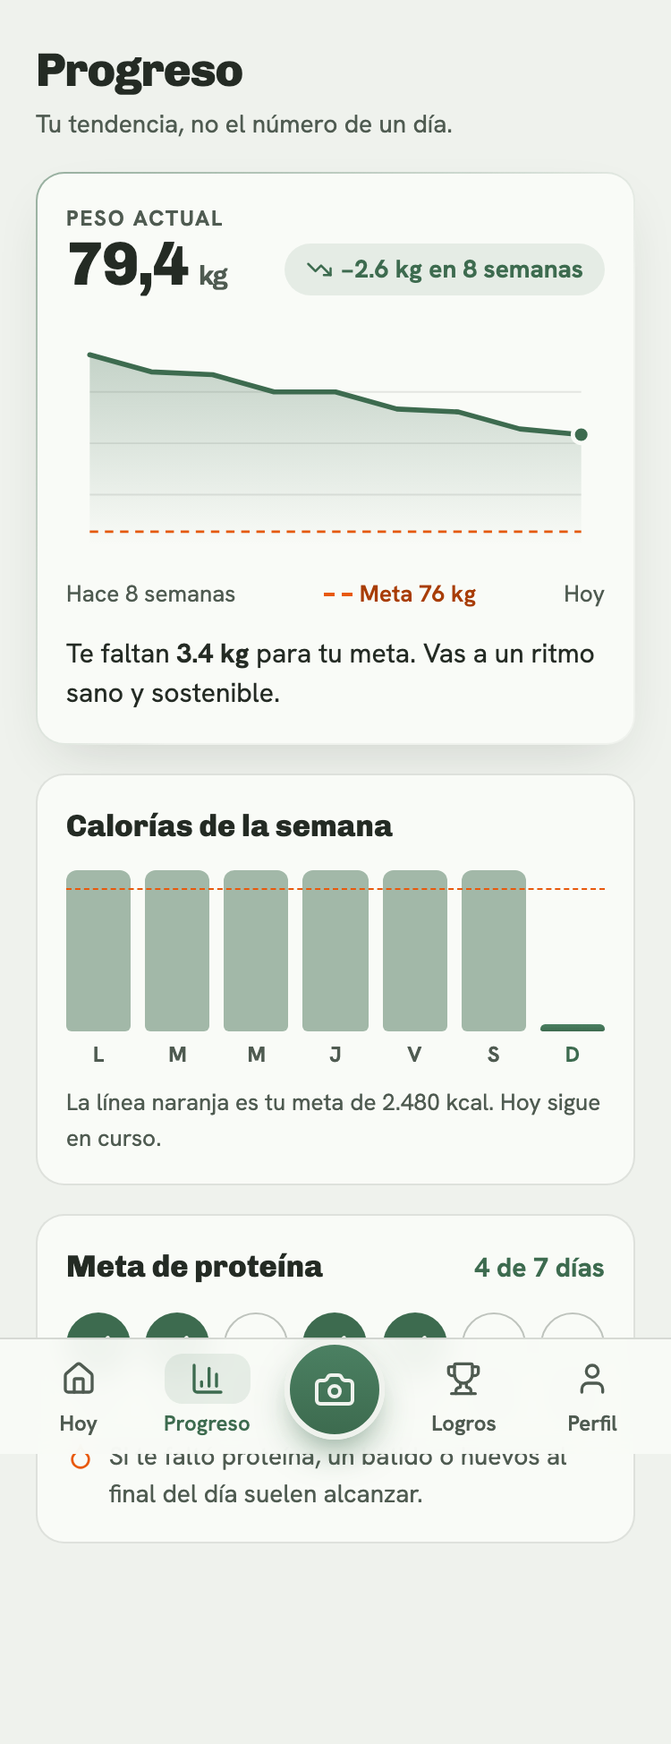
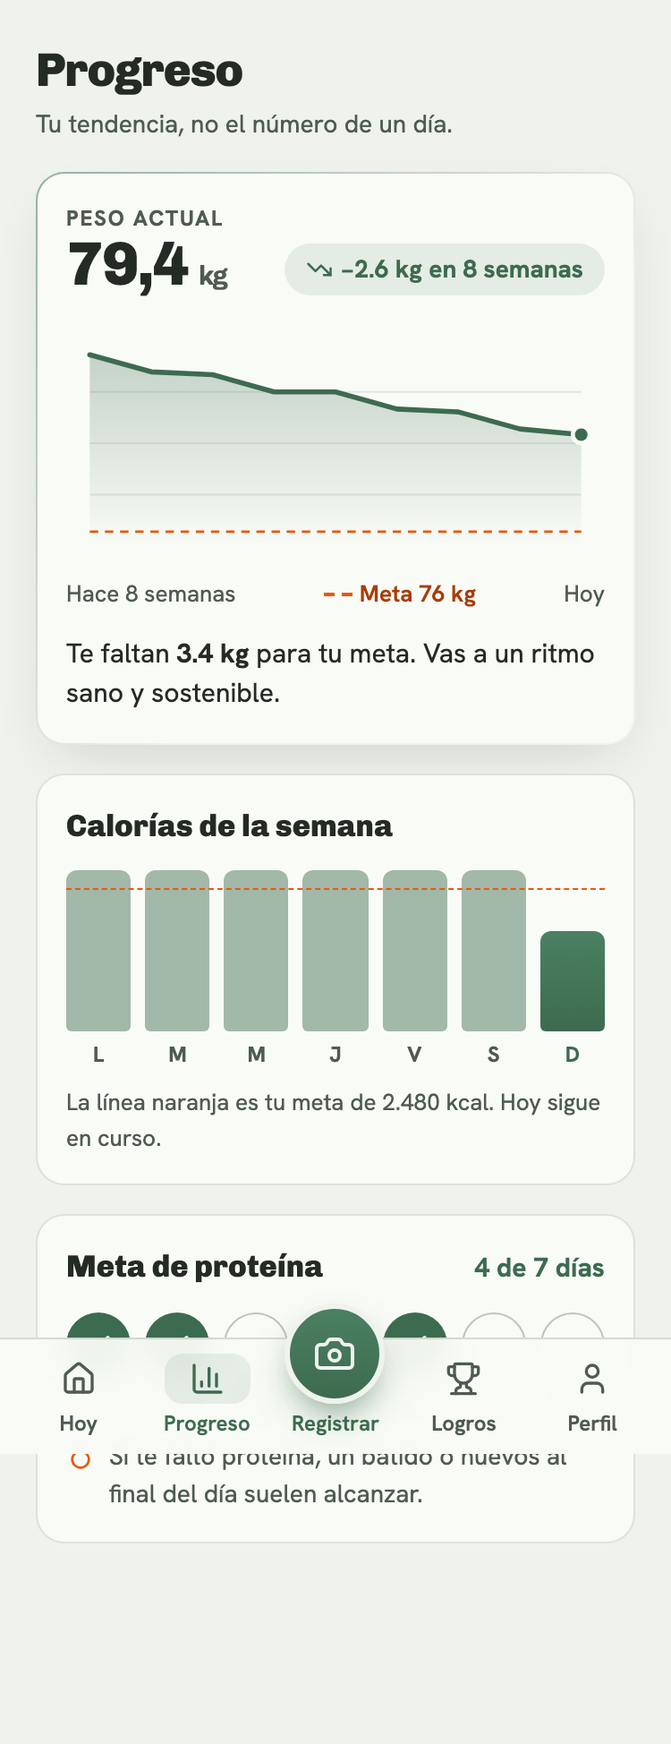
fix: pantalla principal tras 1ª revisión (editar/eliminar/deshacer, racha, macros, estados)

Changed region(s): [[0.4293, 0.7392, 0.5827, 0.8624], [0.7973, 0.5236, 0.92, 0.5852]]

diff --git a/components/app/Hoy.tsx b/components/app/Hoy.tsx
@@ -2,9 +2,10 @@
 
 import Link from 'next/link';
 import { motion } from 'motion/react';
-import { Bell, Droplet, Flame, Plus, Trophy } from 'lucide-react';
+import { useState } from 'react';
+import { Droplet, Flame, Pencil, Plus, Trash2, Trophy, X } from 'lucide-react';
 import { Cuenta, Esqueleto, useAppData } from './uso';
-import { totalesHoy, nivelDe } from '@/lib/app-store';
+import { editarComida, eliminarComida, nivelDe, restaurarComida, totalesHoy, type Comida } from '@/lib/app-store';
 import { EASE } from '@/components/onboarding/ui';
 
 const fechaLarga = () => {
@@ -24,7 +25,11 @@ function Anillo({ pct, size = 76 }: { pct: number; size?: number }) {
 }
 
 export function Hoy() {
-  const [d] = useAppData();
+  const [d, actualizar] = useAppData();
+  const [abierta, setAbierta] = useState<Comida | null>(null);
+  const [editando, setEditando] = useState(false);
+  const [form, setForm] = useState({ titulo: '', kcal: '' });
+  const [deshacer, setDeshacer] = useState<Comida | null>(null);
   if (!d) return <Esqueleto />;
   const t = totalesHoy(d);
   const restantes = Math.max(0, d.metaKcal - t.kcal);
@@ -44,14 +49,13 @@ export function Hoy() {
           <h1 className="truncate text-[20px] font-extrabold leading-tight tracking-[-0.02em] [font-family:var(--font-display)]">Hola, {d.nombre}</h1>
           <p className="text-[14px] text-[var(--text-secondary)]">{fechaLarga()}</p>
         </div>
-        <span className="inline-flex items-center gap-1 rounded-full bg-[#A83D06] px-2.5 py-1 text-[13px] font-extrabold text-white"><Flame size={14} aria-hidden="true" />{d.racha}</span>
-        <button type="button" aria-label="Avisos" className="flex size-11 items-center justify-center rounded-[12px] border border-[color-mix(in_oklab,var(--text-secondary)_20%,transparent)] bg-[var(--surface)] text-[var(--text-secondary)]"><Bell size={18} aria-hidden="true" /></button>
+        <Link href="/app/logros" aria-label={`Racha de ${d.racha} días. Ver logros`} className="inline-flex min-h-11 items-center gap-1 rounded-full bg-[#A83D06] px-3 text-[14px] font-extrabold text-white"><Flame size={15} aria-hidden="true" />{d.racha} días</Link>
       </header>
       {d.demo && <p className="mt-3 inline-block rounded-full bg-[var(--surface-2)] px-3 py-1 text-[13px] font-semibold text-[var(--text-secondary)]">Vista previa con datos de ejemplo</p>}
 
       <motion.section initial={{ opacity: 0, y: 12 }} animate={{ opacity: 1, y: 0 }} transition={{ duration: 0.35, ease: EASE }} aria-label="Camino a tu meta" className="mt-4 rounded-[var(--radius-card)] p-4 text-[#F4FAF5] shadow-[0_14px_26px_-12px_rgb(61_107_79/.65)] [background:radial-gradient(120px_80px_at_100%_0%,rgb(255_255_255/.16),transparent_70%),linear-gradient(160deg,#4B8062,#3D6B4F_55%,#2F5640)]">
         <p className="text-[12px] font-bold uppercase tracking-[0.08em] opacity-85">Camino a tu meta</p>
-        <p className="mt-1 text-[28px] font-extrabold leading-none tabular-nums tracking-[-0.03em] [font-family:var(--font-display)]"><Cuenta valor={pesoActual} decimales={1} /> kg <span className="text-[14px] font-semibold opacity-80">→ meta {d.pesoMeta} kg</span></p>
+        <p className="mt-1 text-[24px] font-extrabold leading-none tabular-nums tracking-[-0.03em] [font-family:var(--font-display)]"><Cuenta valor={pesoActual} decimales={1} /> kg <span className="text-[14px] font-semibold opacity-80">→ meta {d.pesoMeta} kg</span></p>
         <div className="relative mt-3 h-2 rounded-full bg-white/20" role="progressbar" aria-valuenow={Math.round(progresoPeso * 100)} aria-valuemin={0} aria-valuemax={100} aria-label="Avance hacia tu meta">
           <motion.div initial={{ width: 0 }} animate={{ width: `${progresoPeso * 100}%` }} transition={{ duration: 0.9, ease: EASE }} className="h-full rounded-full bg-[#F4FAF5]" />
           {[25, 50, 75].map((p) => <span key={p} className="absolute -top-[3px] h-[14px] w-[2px] rounded bg-white/55" style={{ left: `${p}%` }} />)}
@@ -61,8 +65,8 @@ export function Hoy() {
         </div>
         <div className="mt-3 flex items-center gap-2 text-[12px] font-bold uppercase tracking-[0.04em]">
           <span>Nivel {nivel.actual.n} · {nivel.actual.nombre}</span>
-          <span className="h-1.5 flex-1 overflow-hidden rounded-full bg-white/20"><span className="block h-full rounded-full [background:linear-gradient(90deg,#FF8A3D,#E8590C)]" style={{ width: `${nivel.progreso * 100}%` }} /></span>
-          <span className="tabular-nums">{d.xp} XP</span>
+          <span className="h-1.5 flex-1 overflow-hidden rounded-full bg-white/20"><motion.span initial={{ width: 0 }} animate={{ width: `${nivel.progreso * 100}%` }} transition={{ duration: 0.9, delay: 0.3, ease: EASE }} className="block h-full rounded-full [background:linear-gradient(90deg,#FF8A3D,#E8590C)]" /></span>
+          <span className="tabular-nums">{d.xp} / {nivel.sig ? nivel.sig.desde : d.xp} XP</span>
         </div>
       </motion.section>
 
@@ -72,14 +76,15 @@ export function Hoy() {
           <Flame size={22} className="absolute inset-0 m-auto text-[#E8590C]" aria-hidden="true" />
         </div>
         <div className="min-w-0 flex-1">
-          <p className="text-[28px] font-extrabold leading-none tabular-nums tracking-[-0.03em] [font-family:var(--font-display)]"><Cuenta valor={t.kcal} /> <span className="text-[14px] font-semibold text-[var(--text-secondary)]">de {d.metaKcal.toLocaleString('es-CO')} kcal</span></p>
+          <p className="text-[40px] font-extrabold leading-none tabular-nums tracking-[-0.03em] [font-family:var(--font-display)]"><Cuenta valor={t.kcal} /></p>
+          <p className="mt-1 text-[14px] font-semibold text-[var(--text-secondary)]">de {d.metaKcal.toLocaleString('es-CO')} kcal</p>
           <p className="mt-1 text-[14px] text-[var(--text-secondary)]">{restantes > 0 ? `Te quedan ${restantes.toLocaleString('es-CO')} kcal` : 'Llegaste a tu meta de hoy'}</p>
           <div className="mt-2 grid grid-cols-3 gap-2">
             {macros.map((m) => (
               <div key={m.n}>
-                <p className="text-[15px] font-bold tabular-nums">{m.v} g</p>
-                <p className="text-[12px] text-[var(--text-secondary)]">{m.n} de {m.m}</p>
-                <span className="mt-1 block h-1 overflow-hidden rounded-full bg-[color-mix(in_oklab,var(--text-primary)_10%,transparent)]"><span className="block h-full rounded-full" style={{ width: `${Math.min(100, (m.v / m.m) * 100)}%`, background: m.c }} /></span>
+                <p className="whitespace-nowrap text-[15px] font-bold tabular-nums">{m.v}<span className="text-[13px] font-medium text-[var(--text-secondary)]"> /{m.m} g</span></p>
+                <p className="text-[12px] text-[var(--text-secondary)]">{m.n}</p>
+                <span className="mt-1 block h-1 overflow-hidden rounded-full bg-[color-mix(in_oklab,var(--text-primary)_10%,transparent)]"><motion.span initial={{ width: 0 }} animate={{ width: `${Math.min(100, (m.v / m.m) * 100)}%` }} transition={{ duration: 0.8, delay: 0.2, ease: EASE }} className="block h-full rounded-full" style={{ background: m.c }} /></span>
               </div>
             ))}
           </div>
@@ -100,14 +105,16 @@ export function Hoy() {
         ) : (
           <ul className="mt-3 flex flex-col gap-2">
             {d.comidasHoy.map((c, i) => (
-              <motion.li key={c.id} initial={{ opacity: 0, y: 10 }} animate={{ opacity: 1, y: 0 }} transition={{ duration: 0.3, delay: 0.1 + 0.06 * i, ease: EASE }} className="flex items-center gap-3 rounded-[var(--radius-card)] border border-[color-mix(in_oklab,var(--text-secondary)_16%,transparent)] bg-[var(--surface)] p-2 pr-4">
-                {/* eslint-disable-next-line @next/next/no-img-element */}
-                {c.foto ? <img src={c.foto} alt="" width={52} height={52} className="size-[52px] shrink-0 rounded-[12px] object-cover" /> : <span className="flex size-[52px] shrink-0 items-center justify-center rounded-[12px] bg-[var(--chip-bg)] text-[var(--accent)]"><Plus size={20} aria-hidden="true" /></span>}
-                <div className="min-w-0 flex-1">
-                  <p className="truncate text-[15px] font-bold">{c.titulo}</p>
-                  <p className="truncate text-[13px] text-[var(--text-secondary)]">{c.hora} · {c.aceite ? <span className="font-semibold text-[#A83D06]">+{c.aceite} kcal de aceite</span> : c.nota ?? 'Registrado'}</p>
-                </div>
-                <p className="text-right text-[17px] font-extrabold tabular-nums [font-family:var(--font-display)]">{c.kcal}<span className="block text-[12px] font-medium text-[var(--text-secondary)]">kcal</span></p>
+              <motion.li key={c.id} initial={{ opacity: 0, y: 10 }} animate={{ opacity: 1, y: 0 }} transition={{ duration: 0.3, delay: 0.1 + 0.06 * i, ease: EASE }}>
+                <motion.button type="button" whileTap={{ scale: 0.98 }} onClick={() => { setAbierta(c); setEditando(false); }} aria-label={`${c.titulo}, ${c.kcal} kcal. Ver detalle`} className="flex w-full items-center gap-3 rounded-[var(--radius-card)] border border-[color-mix(in_oklab,var(--text-secondary)_16%,transparent)] bg-[var(--surface)] p-2 pr-4 text-left">
+                  {/* eslint-disable-next-line @next/next/no-img-element */}
+                  {c.foto ? <img src={c.foto} alt="" width={52} height={52} className="size-[52px] shrink-0 rounded-[12px] object-cover" /> : <span className="flex size-[52px] shrink-0 items-center justify-center rounded-[12px] bg-[var(--chip-bg)] text-[var(--accent)]"><Plus size={20} aria-hidden="true" /></span>}
+                  <span className="min-w-0 flex-1">
+                    <span className="block truncate text-[15px] font-bold">{c.titulo}</span>
+                    <span className="block truncate text-[13px] text-[var(--text-secondary)]">{c.hora} · {c.aceite ? <span className="font-semibold text-[#A83D06]">+{c.aceite} kcal de aceite</span> : c.nota ?? 'Registrado'}</span>
+                  </span>
+                  <span className="text-right text-[17px] font-extrabold tabular-nums [font-family:var(--font-display)]">{c.kcal}<span className="block text-[12px] font-medium text-[var(--text-secondary)]">kcal</span></span>
+                </motion.button>
               </motion.li>
             ))}
           </ul>
@@ -116,8 +123,45 @@ export function Hoy() {
 
       <Link href="/app/logros" className="mt-4 flex min-h-14 items-center gap-3 rounded-[var(--radius-card)] border border-[rgb(232_89_12/.25)] p-3 [background:linear-gradient(135deg,#FBE9D3,#F7D9B6)]">
         <span className="flex size-10 shrink-0 items-center justify-center rounded-[12px] bg-white/65 text-[#9A5A00]"><Trophy size={18} aria-hidden="true" /></span>
-        <span className="min-w-0 flex-1"><span className="block text-[15px] font-bold text-[#5A2D05]">Casi lo logras: Semana sin ceguera</span><span className="block text-[13px] text-[#7A4A1C]">Te faltan 2 días respondiendo el Chequeo</span></span>
+        <span className="min-w-0 flex-1"><span className="block text-[15px] font-bold text-[#5A2D05]">Casi lo logras: Semana del Chequeo</span><span className="block text-[13px] text-[#7A4A1C]">Responde el Chequeo 2 días más</span></span>
       </Link>
+
+      {abierta && (
+        <div className="fixed inset-0 z-50 flex items-end justify-center bg-black/40" onClick={() => setAbierta(null)}>
+          <motion.div initial={{ y: 40, opacity: 0 }} animate={{ y: 0, opacity: 1 }} transition={{ duration: 0.28, ease: EASE }} role="dialog" aria-modal="true" aria-label={abierta.titulo} onClick={(e) => e.stopPropagation()} className="w-full max-w-[480px] rounded-t-[24px] bg-[var(--bg)] px-5 pb-[max(20px,env(safe-area-inset-bottom))] pt-4 shadow-[0_-12px_30px_-10px_rgb(0_0_0/.25)]">
+            <div className="flex items-start justify-between gap-3">
+              <div className="min-w-0"><h2 className="text-[20px] font-extrabold leading-tight [font-family:var(--font-display)]">{abierta.titulo}</h2><p className="text-[14px] text-[var(--text-secondary)]">{abierta.hora} · {abierta.nota ?? 'Registrado'}</p></div>
+              <button type="button" autoFocus onClick={() => setAbierta(null)} aria-label="Cerrar" className="flex size-11 shrink-0 items-center justify-center rounded-full text-[var(--text-secondary)]"><X size={20} aria-hidden="true" /></button>
+            </div>
+            {!editando ? (
+              <>
+                <div className="mt-3 grid grid-cols-4 gap-2 text-center">
+                  {[[abierta.kcal, 'kcal'], [abierta.proteina, 'prot. g'], [abierta.carbos, 'carbos g'], [abierta.grasas, 'grasas g']].map(([v, l]) => (
+                    <div key={l as string} className="rounded-[12px] bg-[var(--surface-2)] p-2"><p className="text-[18px] font-extrabold tabular-nums [font-family:var(--font-display)]">{v}</p><p className="text-[12px] text-[var(--text-secondary)]">{l}</p></div>
+                  ))}
+                </div>
+                {abierta.aceite ? <p className="mt-3 flex items-center gap-2 text-[14px] font-semibold text-[#A83D06]"><Droplet size={16} aria-hidden="true" /> El Chequeo atrapó {abierta.aceite} kcal de aceite.</p> : null}
+                <div className="mt-4 grid grid-cols-2 gap-2">
+                  <button type="button" onClick={() => { setForm({ titulo: abierta.titulo, kcal: String(abierta.kcal) }); setEditando(true); }} className="flex min-h-12 items-center justify-center gap-2 rounded-[var(--radius-button)] border border-[color-mix(in_oklab,var(--text-secondary)_30%,transparent)] text-[15px] font-semibold"><Pencil size={16} aria-hidden="true" /> Editar</button>
+                  <button type="button" onClick={() => { const c = abierta; actualizar((x) => eliminarComida(x, c.id)); setDeshacer(c); setAbierta(null); setTimeout(() => setDeshacer((cur) => (cur?.id === c.id ? null : cur)), 6000); }} className="flex min-h-12 items-center justify-center gap-2 rounded-[var(--radius-button)] border border-[#A83D06]/40 text-[15px] font-semibold text-[#A83D06]"><Trash2 size={16} aria-hidden="true" /> Eliminar</button>
+                </div>
+              </>
+            ) : (
+              <form className="mt-3 flex flex-col gap-3" onSubmit={(e) => { e.preventDefault(); const k = Number(form.kcal.replace(',', '.')); if (form.titulo.trim().length < 2 || !(k > 0 && k <= 3000)) return; actualizar((x) => editarComida(x, abierta.id, { titulo: form.titulo.trim(), kcal: Math.round(k) })); setAbierta(null); }}>
+                <label className="block"><span className="text-[14px] font-semibold text-[var(--text-secondary)]">Nombre</span><input value={form.titulo} onChange={(e) => setForm((f) => ({ ...f, titulo: e.target.value }))} maxLength={60} className="mt-1 h-12 w-full rounded-[var(--radius-card)] border border-[color-mix(in_oklab,var(--text-secondary)_28%,transparent)] bg-[var(--surface)] px-4 text-[16px] outline-none focus:border-[var(--accent)]" /></label>
+                <label className="block"><span className="text-[14px] font-semibold text-[var(--text-secondary)]">Calorías (kcal)</span><input inputMode="decimal" value={form.kcal} onChange={(e) => setForm((f) => ({ ...f, kcal: e.target.value.replace(/[^0-9.,]/g, '') }))} className="mt-1 h-12 w-full rounded-[var(--radius-card)] border border-[color-mix(in_oklab,var(--text-secondary)_28%,transparent)] bg-[var(--surface)] px-4 text-[16px] tabular-nums outline-none focus:border-[var(--accent)]" /></label>
+                <div className="grid grid-cols-2 gap-2"><button type="button" onClick={() => setEditando(false)} className="min-h-12 rounded-[var(--radius-button)] border border-[color-mix(in_oklab,var(--text-secondary)_30%,transparent)] text-[15px] font-semibold">Cancelar</button><button type="submit" className="min-h-12 rounded-[var(--radius-button)] bg-[var(--accent)] text-[15px] font-semibold text-[var(--bg)]">Guardar</button></div>
+              </form>
+            )}
+          </motion.div>
+        </div>
+      )}
+      {deshacer && (
+        <div role="status" className="fixed inset-x-5 bottom-28 z-50 mx-auto flex max-w-[440px] items-center justify-between gap-3 rounded-[var(--radius-card)] bg-[var(--text-primary)] px-4 py-3 text-[var(--bg)] shadow-[var(--shadow-2)]">
+          <span className="text-[14px] font-semibold">Eliminaste «{deshacer.titulo}»</span>
+          <button type="button" onClick={() => { const c = deshacer; actualizar((x) => restaurarComida(x, c)); setDeshacer(null); }} className="min-h-11 px-2 text-[14px] font-extrabold text-[var(--accent-on-dark)] underline underline-offset-4">Deshacer</button>
+        </div>
+      )}
     </main>
   );
 }

diff --git a/components/app/AppShell.tsx b/components/app/AppShell.tsx
@@ -2,6 +2,7 @@
 
 import Link from 'next/link';
 import { usePathname } from 'next/navigation';
+import { useEffect, useState } from 'react';
 import { motion } from 'motion/react';
 import { BarChart3, Camera, Home, Trophy, User } from 'lucide-react';
 import type { ReactNode } from 'react';
@@ -17,9 +18,18 @@ const TABS = [
 /** Estructura de la app interna: contenido + barra inferior de 4 secciones + botón central de registrar. */
 export function AppShell({ children }: { children: ReactNode }) {
   const ruta = usePathname();
+  const [offline, setOffline] = useState(false);
+  useEffect(() => {
+    const a = () => setOffline(!navigator.onLine);
+    a();
+    window.addEventListener('online', a);
+    window.addEventListener('offline', a);
+    return () => { window.removeEventListener('online', a); window.removeEventListener('offline', a); };
+  }, []);
   if (ruta.startsWith('/app/registrar')) return <>{children}</>;
   return (
     <div className="mx-auto min-h-dvh max-w-[480px] bg-[var(--bg)] pb-28 text-[var(--text-primary)] [font-family:var(--font-body)]">
+      {offline && <p role="status" className="bg-[var(--surface-2)] px-5 py-2 text-center text-[14px] font-semibold text-[var(--text-secondary)]">Sin conexión: tus datos se guardan en este dispositivo.</p>}
       {children}
       <nav aria-label="Navegación principal" className="fixed inset-x-0 bottom-0 z-40 mx-auto max-w-[480px] border-t border-[color-mix(in_oklab,var(--text-secondary)_20%,transparent)] bg-[color-mix(in_oklab,var(--surface)_94%,transparent)] px-2 pb-[max(8px,env(safe-area-inset-bottom))] pt-2 backdrop-blur">
         <ul className="grid grid-cols-5 items-end">
@@ -28,12 +38,13 @@ export function AppShell({ children }: { children: ReactNode }) {
             const Icono = t.icon;
             if ('fab' in t) {
               return (
-                <li key={t.href} className="flex justify-center">
+                <li key={t.href} className="flex flex-col items-center">
                   <motion.div whileTap={{ scale: 0.94 }}>
                     <Link href={t.href} aria-label="Registrar una comida" className="-mt-7 flex size-14 items-center justify-center rounded-full border-[3px] border-[var(--bg)] text-[var(--bg)] shadow-[0_10px_20px_-6px_color-mix(in_oklab,var(--accent)_65%,transparent)] [background:linear-gradient(180deg,#4B8062,#3D6B4F)]">
                       <Icono size={24} aria-hidden="true" />
                     </Link>
                   </motion.div>
+                  <span className="mt-0.5 text-[12px] font-semibold text-[var(--accent)]">Registrar</span>
                 </li>
               );
             }

diff --git a/lib/app-store.ts b/lib/app-store.ts
@@ -56,7 +56,7 @@ export function semilla(perfil?: Perfil): AppData {
     xp: 340,
     fecha: hoyISO(),
     comidasHoy: [
-      { id: 's1', hora: '08:10', titulo: 'Avena con huevos', nota: 'Foto · segundos', kcal: 520, proteina: 28, carbos: 58, grasas: 18, foto: '/fotos/desayuno.jpg' },
+      { id: 's1', hora: '08:10', titulo: 'Avena con huevos', nota: 'Foto', kcal: 520, proteina: 28, carbos: 58, grasas: 18, foto: '/fotos/desayuno.jpg' },
       { id: 's2', hora: '13:05', titulo: 'Pollo con arroz y frijoles', nota: 'Foto + voz', kcal: 640, proteina: 52, carbos: 62, grasas: 18, foto: '/fotos/pollo.jpg', aceite: 120 },
       { id: 's3', hora: '16:30', titulo: 'Batido de proteína', nota: 'Escáner de código', kcal: 210, proteina: 30, carbos: 12, grasas: 4, foto: '/fotos/batido.jpg' },
     ],
@@ -96,6 +96,26 @@ export function borrarTodo() {
 
 export function totalesHoy(d: AppData) {
   return d.comidasHoy.reduce((t, c) => ({ kcal: t.kcal + c.kcal, proteina: t.proteina + c.proteina, carbos: t.carbos + c.carbos, grasas: t.grasas + c.grasas, aceite: t.aceite + (c.aceite ?? 0) }), { kcal: 0, proteina: 0, carbos: 0, grasas: 0, aceite: 0 });
+}
+
+function recalcular(sig: AppData): AppData {
+  const t = totalesHoy(sig);
+  return {
+    ...sig,
+    kcalSemana: [...sig.kcalSemana.slice(0, 6), t.kcal],
+    proteinaDias: [...sig.proteinaDias.slice(0, 6), t.proteina >= sig.metaProteina],
+    grasasSemana: [...sig.grasasSemana.slice(0, 6), t.aceite],
+  };
+}
+export function eliminarComida(d: AppData, id: string): AppData {
+  return recalcular({ ...d, comidasHoy: d.comidasHoy.filter((c) => c.id !== id) });
+}
+export function restaurarComida(d: AppData, c: Comida): AppData {
+  const lista = [...d.comidasHoy, c].sort((a, b) => a.hora.localeCompare(b.hora));
+  return recalcular({ ...d, comidasHoy: lista });
+}
+export function editarComida(d: AppData, id: string, cambios: { titulo: string; kcal: number }): AppData {
+  return recalcular({ ...d, comidasHoy: d.comidasHoy.map((c) => (c.id === id ? { ...c, ...cambios } : c)) });
 }
 
 export function agregarComida(d: AppData, c: Omit<Comida, 'id' | 'hora'>): AppData {

diff --git a/components/app/Logros.tsx b/components/app/Logros.tsx
@@ -54,7 +54,7 @@ export function Logros() {
         <h2 className="text-[13px] font-extrabold uppercase tracking-[0.08em] text-[var(--text-secondary)]">Casi lo logras</h2>
         <ul className="mt-2 flex flex-col gap-2">
           {[
-            { t: 'Semana sin ceguera', v: '5 / 7', p: 5 / 7, nota: '2 días más respondiendo el Chequeo', icon: ShieldCheck, o: false },
+            { t: 'Semana del Chequeo', v: '5 / 7', p: 5 / 7, nota: 'Responde el Chequeo 2 días más', icon: ShieldCheck, o: false },
             { t: 'Cazador de grasas II', v: `${Math.max(640, total)} / 1.000 kcal`, p: Math.min(1, Math.max(640, total) / 1000), nota: `Te faltan ${Math.max(0, 1000 - Math.max(640, total))} kcal por atrapar`, icon: Droplet, o: true },
           ].map((x) => (
             <li key={x.t} className="flex items-center gap-3 rounded-[var(--radius-card)] border border-[color-mix(in_oklab,var(--text-secondary)_16%,transparent)] bg-[var(--surface)] p-3">

diff --git a/ESTADO.md b/ESTADO.md
@@ -137,6 +137,7 @@ Registro de calorías y macros por FOTO con IA + corrección por VOZ + escáner 
 - Sesión 2: identidad visual y tour de la app. Sesión 3: página de ventas. Sesiones 4-8 según el plan maestro.
 
 ## Problemas conocidos ⚠
+- veredicto pantalla principal (Hoy): 1ª revisión independiente NO LISTA (usab 26/40 · craft 13/20; gates 36/16). Corregido tras ella: sin campana muerta, racha enlaza a Logros ('12 días'), filas de comida abren detalle con Editar/Eliminar y toast Deshacer, kcal héroe a 40px, macros sin romper línea, XP '340 / 500', etiqueta 'Registrar' en el botón central, aviso sin conexión, barras animadas, 'Semana del Chequeo'. Pendiente: 2ª revisión (opcional), estado de error de carga más rico, celebración en hitos, rejilla visible en Hoy. Decisión del usuario pendiente.
 - IA real de fotos SIN PROBAR (2026-11-11): Anthropic rechaza la clave guardada en .env.local con 401 'invalid x-api-key' tras 4 intentos del usuario (3 claves distintas; con pegado en terminal y con portapapeles + limpieza de caracteres). El servidor y la ruta /api/analizar están listos y caen a DEMO sin clave. Causa no determinada (el sistema bloqueó inspeccionar la clave; correcto). Para retomar: el usuario revisa en console.anthropic.com que la clave esté Active y que la organización/workspace tenga crédito, o prueba la clave con un comando de curl propio. NO declarar el momento-wow listo hasta que una foto real funcione.
 - veredicto paywall y onboarding: 2ª revisión independiente (2026-11-11) NO LISTA: onboarding usab 29/40 · craft 15/20 · paywall usab 29/40 · craft 14/20 · copy 15/20 (gates 36/16/16). Evolución onboarding 29/12 → 29/15; paywall 27/14/13 → 29/14/15. Tras la 2ª se corrigió: recompensa visible (scroll) y compacta, '23%' fusionado al panel, contraste del naranja pequeño, MotionConfig global (reduced-motion), micrófono con estado escuchando/error, 'cucharadas', paywall con selector de planes arriba + garantía en el pie fijo + aviso unificado a 1 día (FICHA-AVATAR actualizada) + manejo de error. PENDIENTE: 3ª revisión (opcional), prueba social real, quitar la nota 'vista previa' al conectar Hotmart. El revisor puntúa casi todo en 3; el gate de 36/40 exige varios 4. Decisión del usuario pendiente.
 - veredicto landing: 3ª revisión independiente (2026-11-07) NO LISTA: usab 30/40 · craft 14/20 · copy 16/20 (gates 36/16/16; copy ya pasa). Evolución: 28/12/14 → 28/13/15 → 30/14/16. Tras la 3ª se corrigió: fila de confianza, título+contador en 'costo', footer, garantía bajo ambos CTAs, sticky sin duplicados, dots 44px, excepción del bloque oscuro documentada en FICHA-ARTE. PENDIENTE: 4ª revisión (opcional), correo de soporte (requiere dominio), prueba social real, screenshots reales de la app. Nota: el revisor puntúa casi todo en 3; llegar a 36/40 exige varios 4 ('raro' según su rúbrica). Decisión del usuario pendiente.

diff --git a/docs/revisiones/pantalla-principal-veredicto.md b/docs/revisiones/pantalla-principal-veredicto.md
@@ -1,0 +1,9 @@
+# VEREDICTO revisor-visual — pantalla-principal (Hoy)
+Fecha: 2026-11-11 12:00
+Screenshot: docs/revisiones/pantalla-principal-375.png
+Usabilidad: 26/40
+Craft: 13/20
+Copy (si vende): N-A
+Fidelidad (si hubo referencia): N-A
+Veredicto: NO LISTA
+Top defectos: 1) Campana de avisos (Hoy.tsx L48) es un <button> sin onClick ni destino: elemento tapable que no hace nada; igual las filas de comida (li sin Link/button) y la pastilla de racha "12" parecen tapables y no responden. 2) No hay forma de editar, borrar ni deshacer una comida desde Hoy (control y libertad = 0 en código; una comida mal detectada queda para siempre). 3) Tarjeta de macros: las etiquetas "Proteína de 164 / Grasas de 69 / Carbos de 301" se parten en dos líneas y dejan el número meta huérfano ("164" solo abajo); en el tour aprobado eran etiquetas cortas de una línea. 4) Dos números héroe de 28px compiten (79,4 kg y 1.370 kcal) y la tarjeta verde mezcla dos métricas distintas (peso + nivel/XP); >3 tamaños de texto (28/20/18/17/15/14/13/12); el ritual diario (kcal de hoy) queda en 2º lugar. 5) Movimiento incompleto y sin estados de error/offline: filas, campana, banner y pastilla sin whileTap; sin transición entre pestañas; barras de macros/XP estáticas; sin celebración; lectura de datos solo con catch silencioso en app-store, sin mensaje de error ni estado offline. Además regresiones vs tour aprobado: racha sin etiqueta ("12" vs "12 DÍAS"), XP sin tope ("340 XP" vs "340/500 XP"), "Foto · segundos" ambiguo.
